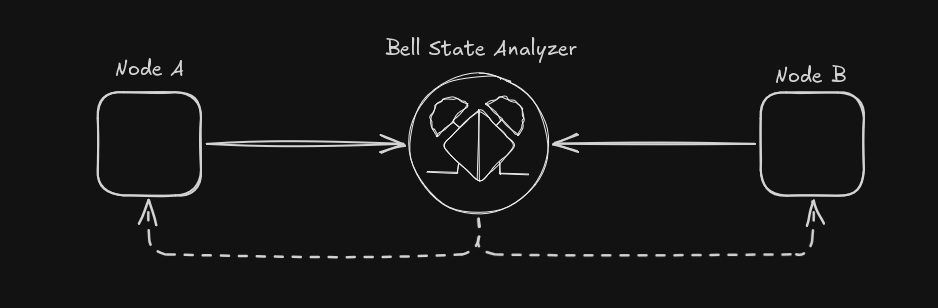
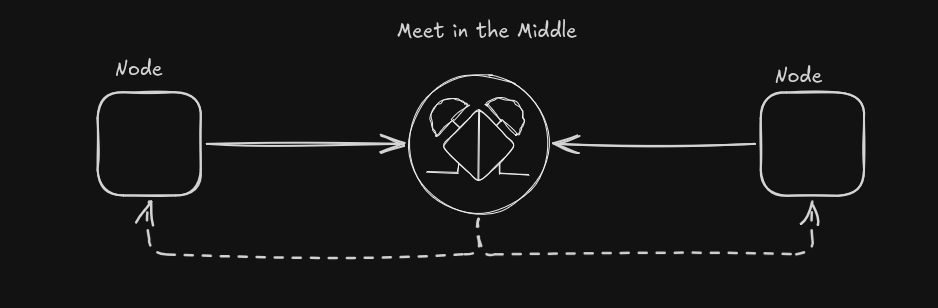
update

diff --git a/content/posts/2026/03/node-to-node-links/index.md b/content/posts/2026/03/node-to-node-links/index.md
@@ -91,39 +91,65 @@ This is considered the most simple and straight forward protocol. In this set up
 B are placed a distance apart, with a bell state analyzer at the center. A and B are
 time-synchronized.
 
-The entanglement process is thus: first A and B each generate an entangled particle pair
-independently. Then, each one sends one part of their pair to the BSA. Assuming, no
-loss or noise occurs, the BSA will receive both particles at the same time, and swaps
-them. Note that the swapping process happens passively by the BSA. The heralding
-signal is then sent back to both nodes classically, thereby completing the
-entanglement process.
+The entanglement process is thus:
+
+1. A and B each generate an entangled particle pair
+independently. 
+2. Each one sends one part of their pair to the BSA.
+3. The BSA will receive both particles at the same time, and 
+swaps them. Note that the swapping process happens passively by the BSA.
+4. The heralding signal is then sent back to both nodes classically, 
+thereby completing the entanglement process.
 
 
 ## Sender-Receiver
 
-<!--
-Add advantages & disadvantages of the three protocols
-MITM
-SR
-MS
+{{< figure
+  src="./sender-receiver.png"
+  alt="A link in a quantum network from node A to B, made up of one quantum and one classical link"
+  class="insert-image"
+  width="700"
+  height="auto"
+>}}
 
-MITM:
-- simple protocol
-- but, a center BSA is expensive
-- locks up both qubits the entire time
+The sender-receiver protocol is simply the meet-in-the-middle protocol
+with the bell state analyzer moved to the receiver node.
+The advantages this setup provides over meet-in-the middle is that
+if the entanglement fails, the receiver knows right away, thereby
+freeing quantum memory of one node. The other node's quantum memory
+however, will be locked for the entire run. One other advantage is
+that it's self contained. No center node is required.
 
-SR
-- self-contained
-- faster decisions in the receiver's side
-- only locks up qubits for one side
-- but still needs memory lock up
-- locks up senderr for the entire time
+## Midpoint-source
 
-MS
-- higher performance (why?)
-- robust to losses (why?)
-- locks up qubits for a shorter amount of time
-- photon source technology is more developed
-- but more hardware requirements
-- more complex
--->
+{{< figure
+  src="./midpoint-source.png"
+  alt="A link in a quantum network from node A to B, made up of one quantum and one classical link"
+  class="insert-image"
+  width="700"
+  height="auto"
+>}}
+
+The last protocol is the midpoint-source protocol. As the name suggests,
+the source is in the middle and measurement is done at both ends.
+
+The midpoint generates entangled protons and sends them to both ends.
+The end nodes each have BSMs and swaps its own entangled pair with
+the received photon, independently. The results are then classically
+communicated both ways.
+
+This may seem insane at first, you need two BSMs and a center node, and
+you also need to communicate classically both ways. but its gains are
+justified. It leverages the fact that photon sources are a
+more mature technology than BSMs so having sources at the middle is 
+less of a problem. Measuring at the endpoints also locks quantum memory
+for a shorter time much like sender-receiver, but for both ends. This
+faster failure also allows more trials, and a faster clock speed.
+
+## Conclusion
+
+Link-layer quantum entanglement generation is quite fascinating in that
+its quite a bit more complicated than sending physical bits. The medium
+is fragile and time sensitive, and we've not even started talking
+about error correction!
+
